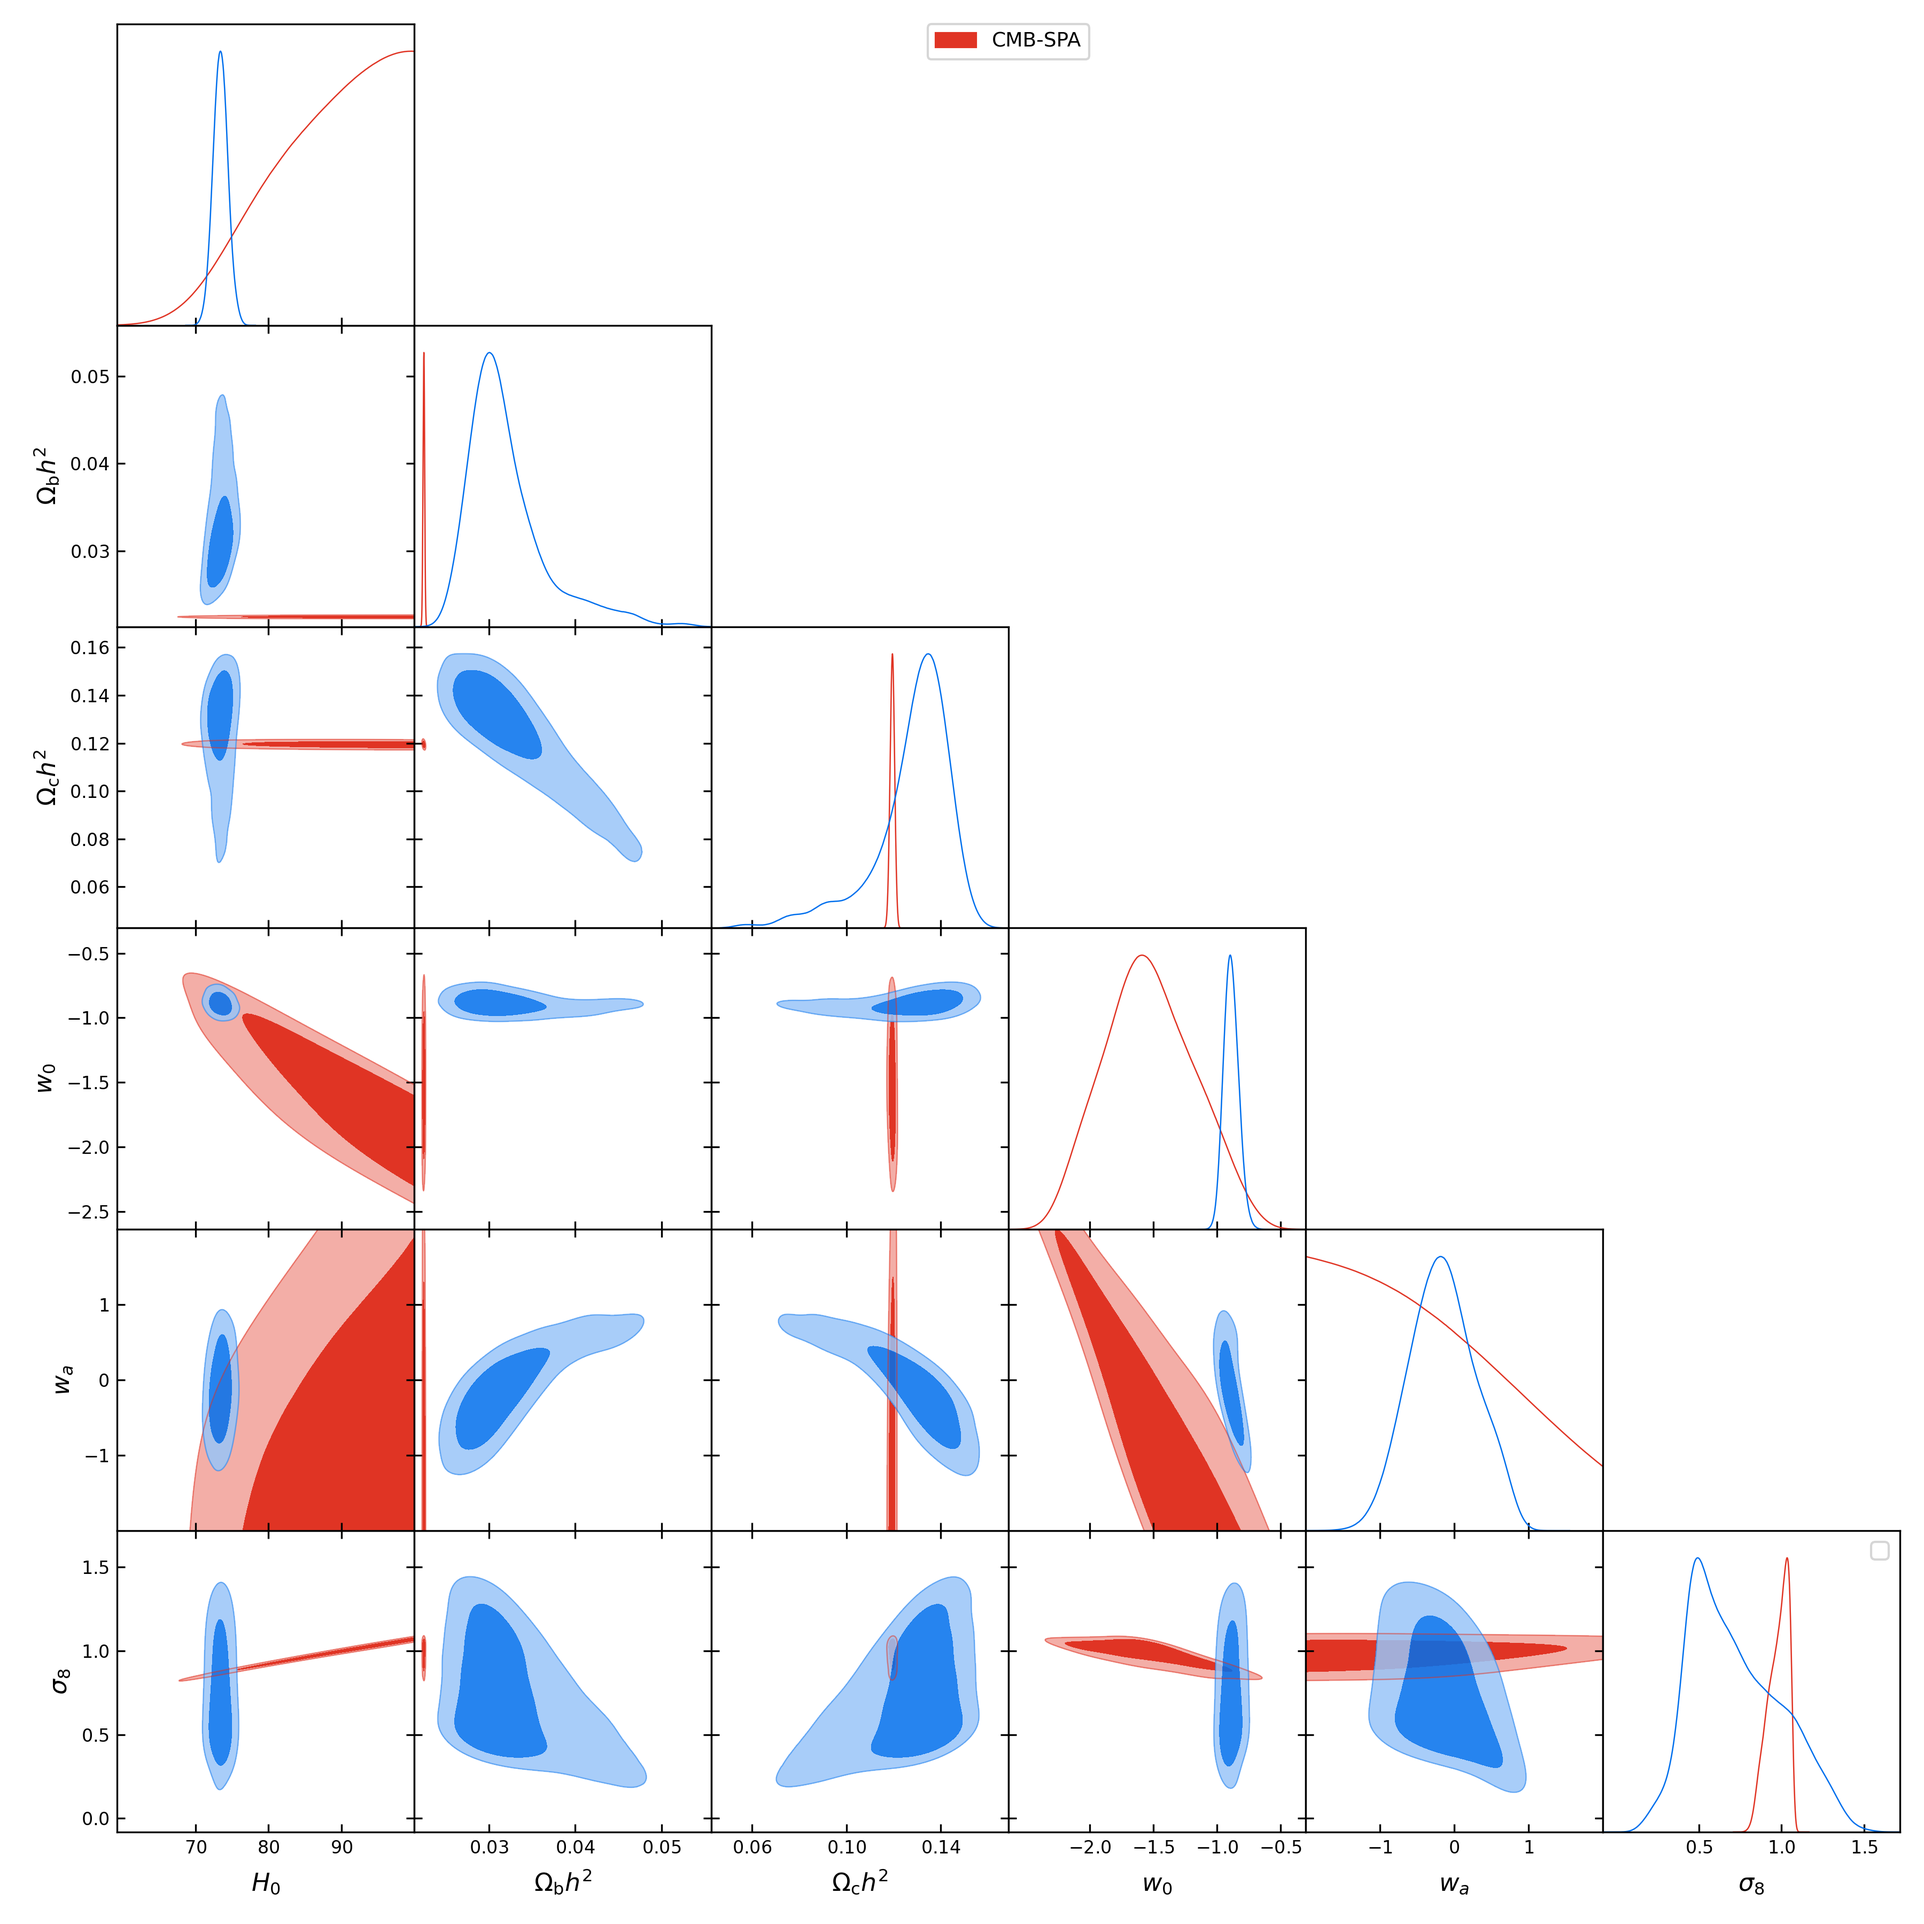
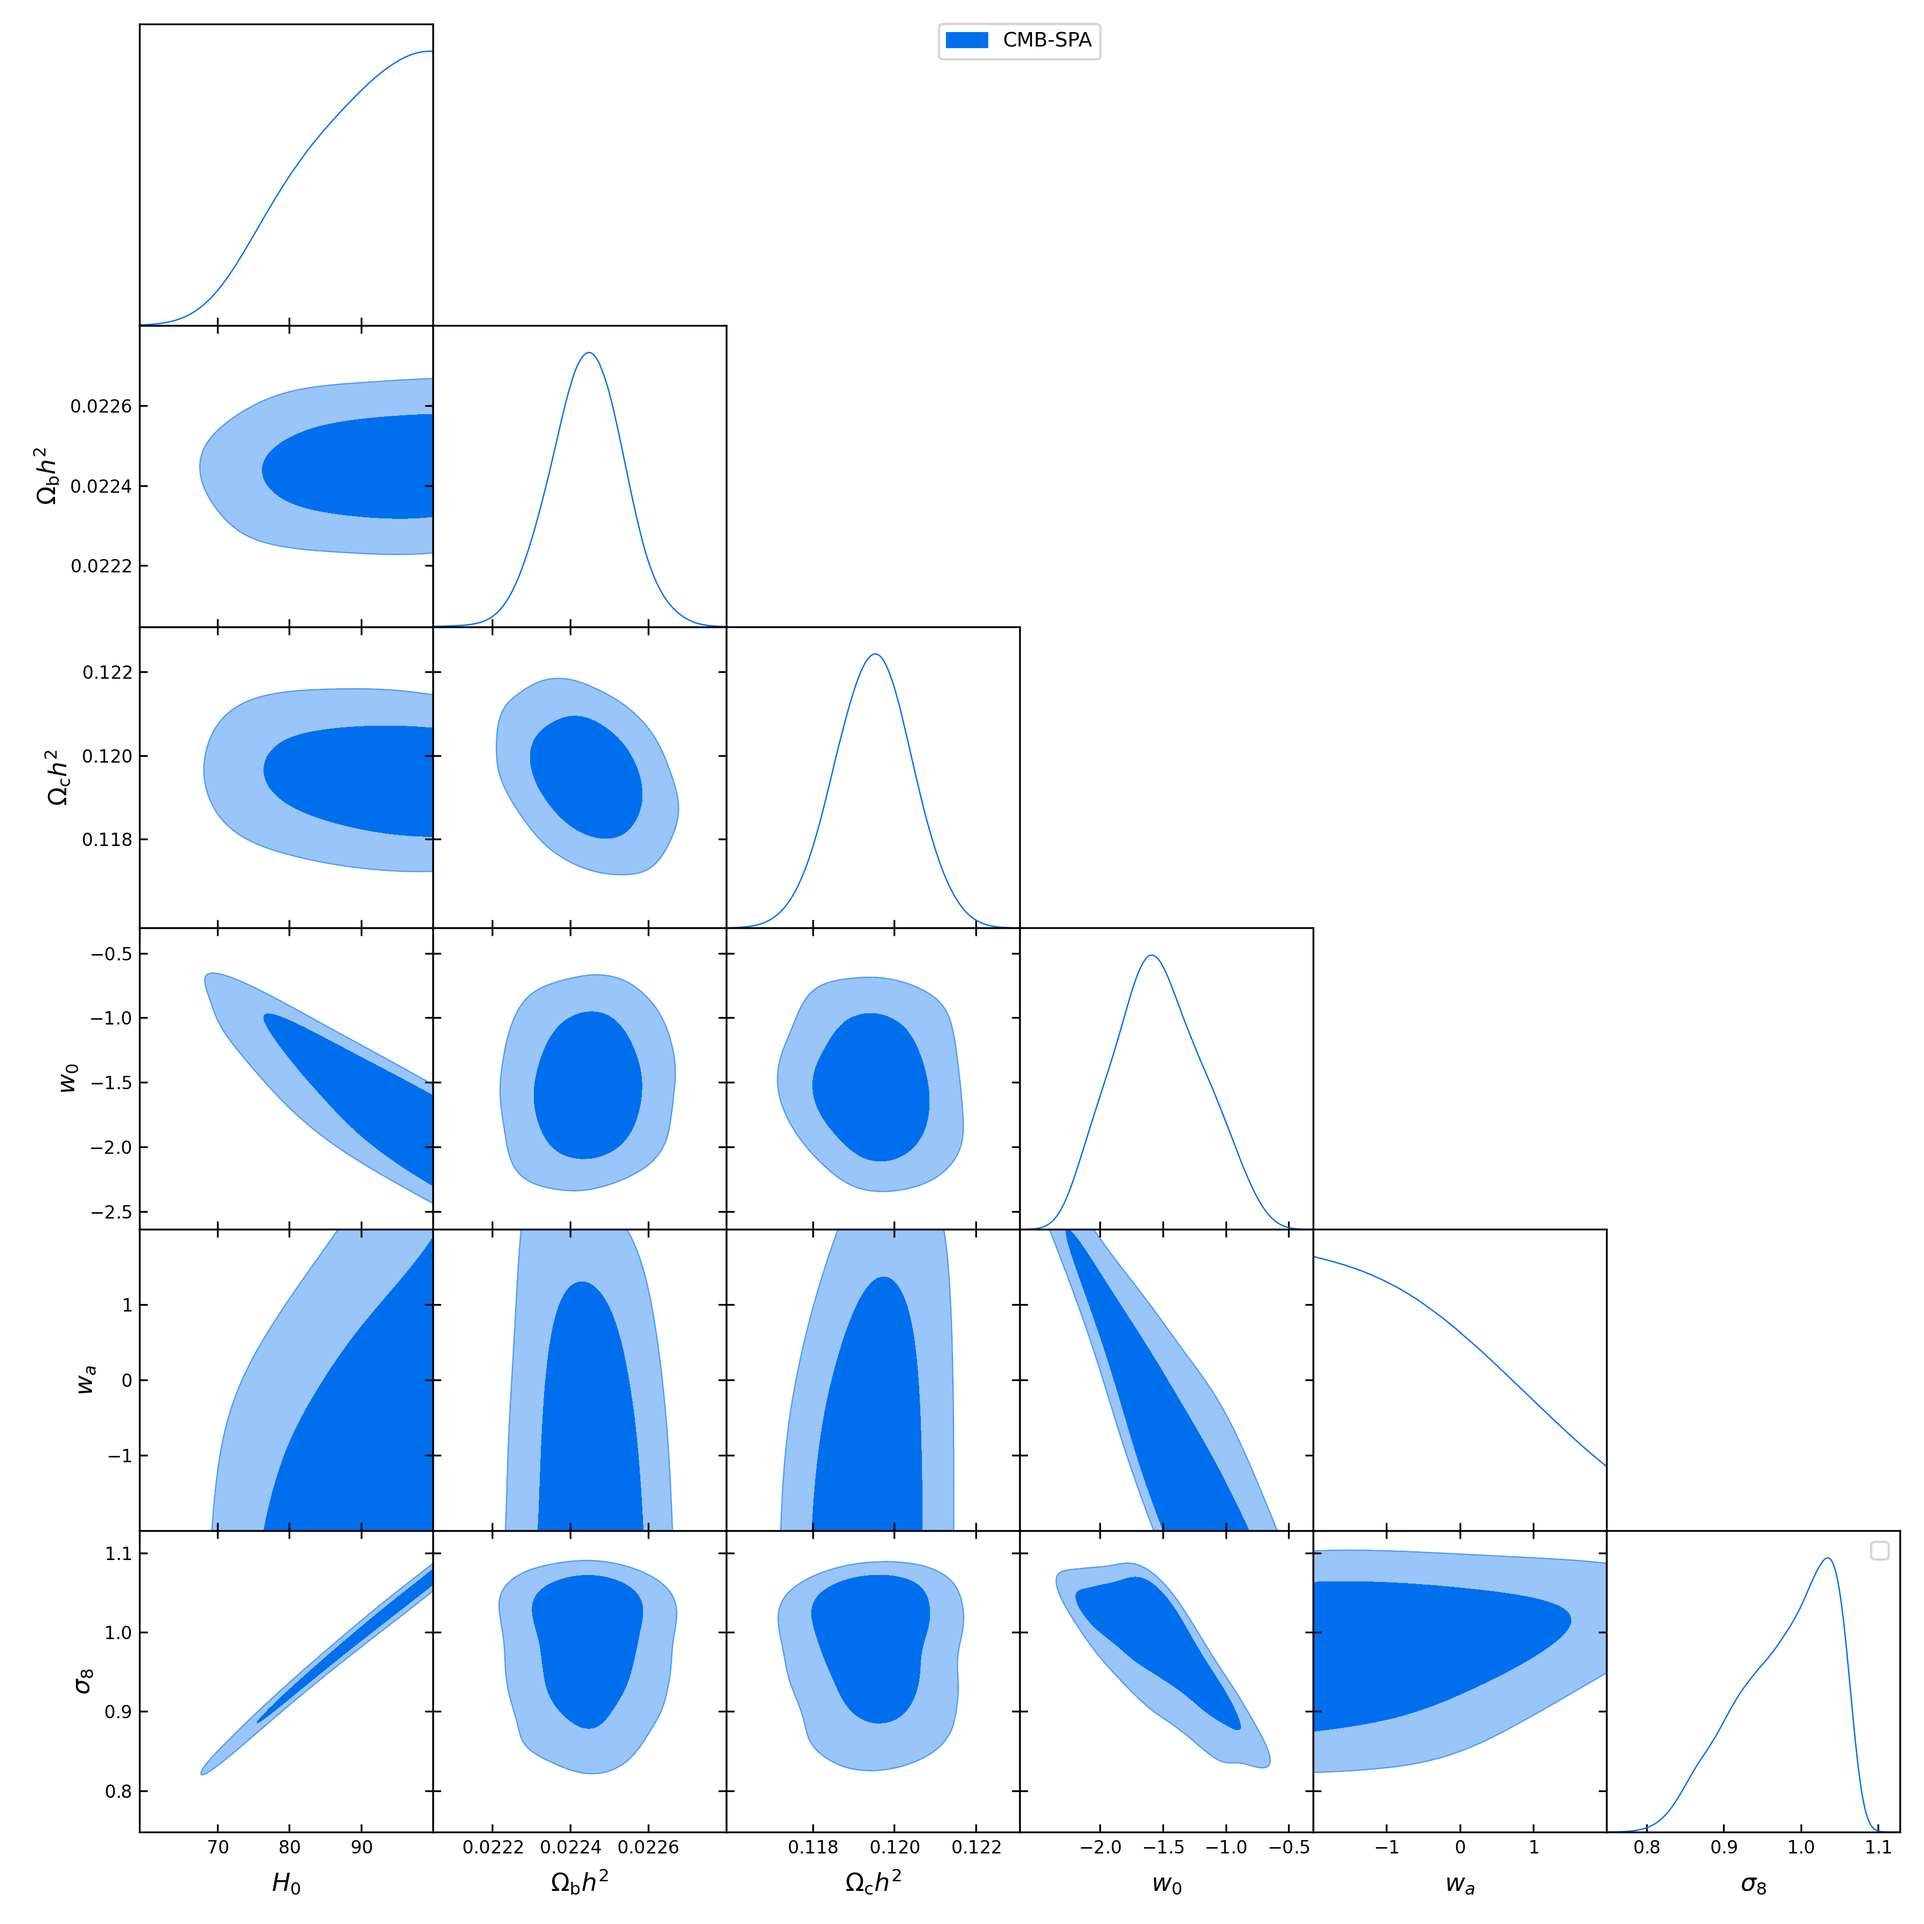
plot updates

diff --git a/.history/aux/plot_20260501135410.py b/.history/aux/plot_20260501135410.py
@@ -8,28 +8,29 @@ burn_in = 0.3
 filename = 'plots.png'
 
 # path to chain
-#chain0 = 'chains/CMB-SPA/CMB-SPA'      # CMB-SPA
+chain0 = 'chains/CMB-SPA/CMB-SPA'      # CMB-SPA
 chain1 = 'chains/PPS+DESI/PPS+DESI'    # PPS + DESI 
 chain2 = 'chains/PP+DESI/PP+DESI'      # PP + DESI
-#chain3 = 'chains/CMB-SPA+PPS+DESI'     # CMB-SPA + PPS + DESI
-#chain4 = 'chains/CMB-SPA+PP+DESI'      # CMB-SPA + PP + DESI
+chain3 = 'chains/CMB-SPA+PPS+DESI'     # CMB-SPA + PPS + DESI
+chain4 = 'chains/CMB-SPA+PP+DESI'      # CMB-SPA + PP + DESI
 
 # load and plot samples
 try:
     #samples0 = loadMCSamples(chain0, settings={'ignore_rows':burn_in})
     samples1 = loadMCSamples(chain1, settings={'ignore_rows':burn_in})
-    samples2 = loadMCSamples(chain2, settings={'ignore_rows':burn_in})
+    #samples2 = loadMCSamples(chain2, settings={'ignore_rows':burn_in})
     #samples3 = loadMCSamples(chain3, settings={'ignore_rows':burn_in})
     #samples4 = loadMCSamples(chain4, settings={'ignore_rows':burn_in})
 
     g = gdplt.get_subplot_plotter()
-    g.triangle_plot([samples1, samples2], 
+    g.triangle_plot([samples1], 
+                    #['H0','ombh2','omch2','w','wa','sigma8'],
                     ['H0','ombh2','omch2','w','wa'],
-                    filled=False,
-                    legend_labels=['Pantheon+ w/ SH0ES + DESI',
-                                   'Pantheon+ + DESI'])
+                    filled=True,
+                    legend_labels=['CMB-SPA'],
+		    param_limits={'wa':(-5,5)})
 
-    plt.legend()
+    plt.legend() 
 
     # save figure
     plt.savefig(filename, dpi=300)

diff --git a/.history/aux/plot_20260501135444.py b/.history/aux/plot_20260501135444.py
@@ -16,16 +16,16 @@ chain4 = 'chains/CMB-SPA+PP+DESI'      # CMB-SPA + PP + DESI
 
 # load and plot samples
 try:
-    samples0 = loadMCSamples(chain0, settings={'ignore_rows':burn_in})
-    #samples1 = loadMCSamples(chain1, settings={'ignore_rows':burn_in})
+    #samples0 = loadMCSamples(chain0, settings={'ignore_rows':burn_in})
+    samples1 = loadMCSamples(chain1, settings={'ignore_rows':burn_in})
     #samples2 = loadMCSamples(chain2, settings={'ignore_rows':burn_in})
     #samples3 = loadMCSamples(chain3, settings={'ignore_rows':burn_in})
     #samples4 = loadMCSamples(chain4, settings={'ignore_rows':burn_in})
 
     g = gdplt.get_subplot_plotter()
-    g.triangle_plot([samples0], 
-                    ['H0','ombh2','omch2','w','wa','sigma8'],
-                    #['H0','ombh2','omch2','w','wa'],
+    g.triangle_plot([samples1], 
+                    #['H0','ombh2','omch2','w','wa','sigma8'],
+                    ['H0','ombh2','omch2','w','wa'],
                     filled=True,
                     legend_labels=['CMB-SPA'],
 		            param_limits={})

diff --git a/.history/aux/plot_20260501135446.py b/.history/aux/plot_20260501135446.py
@@ -16,16 +16,16 @@ chain4 = 'chains/CMB-SPA+PP+DESI'      # CMB-SPA + PP + DESI
 
 # load and plot samples
 try:
-    samples0 = loadMCSamples(chain0, settings={'ignore_rows':burn_in})
-    #samples1 = loadMCSamples(chain1, settings={'ignore_rows':burn_in})
+    #samples0 = loadMCSamples(chain0, settings={'ignore_rows':burn_in})
+    samples1 = loadMCSamples(chain1, settings={'ignore_rows':burn_in})
     #samples2 = loadMCSamples(chain2, settings={'ignore_rows':burn_in})
     #samples3 = loadMCSamples(chain3, settings={'ignore_rows':burn_in})
     #samples4 = loadMCSamples(chain4, settings={'ignore_rows':burn_in})
 
     g = gdplt.get_subplot_plotter()
-    g.triangle_plot([samples0], 
-                    ['H0','ombh2','omch2','w','wa','sigma8'],
-                    #['H0','ombh2','omch2','w','wa'],
+    g.triangle_plot([samples1], 
+                    #['H0','ombh2','omch2','w','wa','sigma8'],
+                    ['H0','ombh2','omch2','w','wa'],
                     filled=True,
                     legend_labels=['CMB-SPA'],
 		            param_limits={})

diff --git a/.history/aux/plot_20260501135251.py b/.history/aux/plot_20260501135251.py
@@ -17,19 +17,19 @@ chain4 = 'chains/CMB-SPA+PP+DESI'      # CMB-SPA + PP + DESI
 # load and plot samples
 try:
     samples0 = loadMCSamples(chain0, settings={'ignore_rows':burn_in})
-    #samples1 = loadMCSamples(chain1, settings={'ignore_rows':burn_in})
+    samples1 = loadMCSamples(chain1, settings={'ignore_rows':burn_in})
     #samples2 = loadMCSamples(chain2, settings={'ignore_rows':burn_in})
     #samples3 = loadMCSamples(chain3, settings={'ignore_rows':burn_in})
     #samples4 = loadMCSamples(chain4, settings={'ignore_rows':burn_in})
 
     g = gdplt.get_subplot_plotter()
-    #g.triangle_plot([samples1, samples2], 
     g.triangle_plot([samples0], 
                     ['H0','ombh2','omch2','w','wa','sigma8'],
-                    filled=False,
-                    legend_labels=['CMB-SPA'])
+                    filled=True,
+                    legend_labels=['CMB-SPA'],
+		    param_limits={'wa':(-5,5)})
 
-    plt.legend()
+    plt.legend() 
 
     # save figure
     plt.savefig(filename, dpi=300)

diff --git a/.history/aux/plot_20260501135342.py b/.history/aux/plot_20260501135342.py
@@ -16,19 +16,18 @@ chain4 = 'chains/CMB-SPA+PP+DESI'      # CMB-SPA + PP + DESI
 
 # load and plot samples
 try:
-    samples0 = loadMCSamples(chain0, settings={'ignore_rows':burn_in})
-    #samples1 = loadMCSamples(chain1, settings={'ignore_rows':burn_in})
+    #samples0 = loadMCSamples(chain0, settings={'ignore_rows':burn_in})
+    samples1 = loadMCSamples(chain1, settings={'ignore_rows':burn_in})
     #samples2 = loadMCSamples(chain2, settings={'ignore_rows':burn_in})
     #samples3 = loadMCSamples(chain3, settings={'ignore_rows':burn_in})
     #samples4 = loadMCSamples(chain4, settings={'ignore_rows':burn_in})
 
     g = gdplt.get_subplot_plotter()
-    g.triangle_plot([samples0], 
+    g.triangle_plot([samples1], 
                     ['H0','ombh2','omch2','w','wa','sigma8'],
-                    #['H0','ombh2','omch2','w','wa'],
                     filled=True,
                     legend_labels=['CMB-SPA'],
-		            param_limits={})
+		    param_limits={'wa':(-5,5)})
 
     plt.legend() 
 

diff --git a/.history/aux/plot_20260501135212.py b/.history/aux/plot_20260501135212.py
@@ -17,7 +17,7 @@ chain4 = 'chains/CMB-SPA+PP+DESI'      # CMB-SPA + PP + DESI
 # load and plot samples
 try:
     samples0 = loadMCSamples(chain0, settings={'ignore_rows':burn_in})
-    #samples1 = loadMCSamples(chain1, settings={'ignore_rows':burn_in})
+    samples1 = loadMCSamples(chain1, settings={'ignore_rows':burn_in})
     #samples2 = loadMCSamples(chain2, settings={'ignore_rows':burn_in})
     #samples3 = loadMCSamples(chain3, settings={'ignore_rows':burn_in})
     #samples4 = loadMCSamples(chain4, settings={'ignore_rows':burn_in})
@@ -25,10 +25,9 @@ try:
     g = gdplt.get_subplot_plotter()
     g.triangle_plot([samples0], 
                     ['H0','ombh2','omch2','w','wa','sigma8'],
-                    #['H0','ombh2','omch2','w','wa'],
                     filled=True,
                     legend_labels=['CMB-SPA'],
-		            param_limits={})
+		    param_limits={'wa':(-2,2)})
 
     plt.legend() 
 
